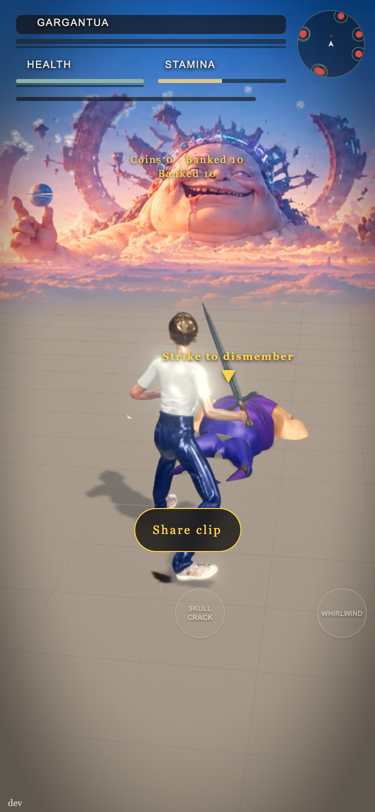
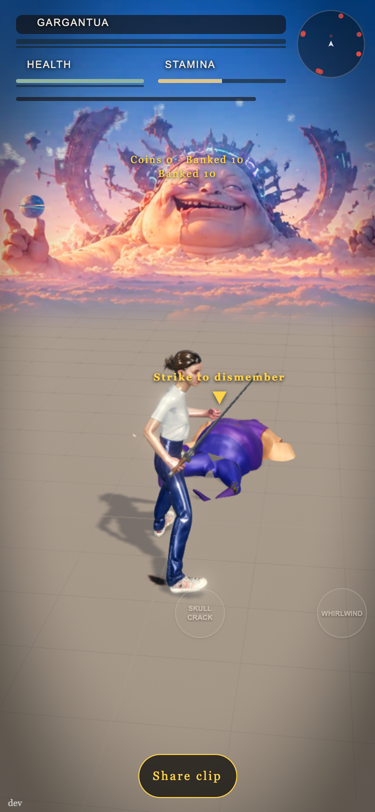
docs: share clip review fixes and new button stills (375, 320, landscape)

diff --git a/docs/share-clip.md b/docs/share-clip.md
@@ -81,4 +81,5 @@ iOS Safari MP4 recording; the iOS and Android share sheet with a file; TikTok / 
 - Share needs a fresh tap, so the button appears only when the file is ready and the tap itself calls `navigator.share` (simpler than V1's auto-try + SEND). A dismissed or refused share leaves the button for another tap; no file-share support downloads.
 - Pit hook: `window.dispatchEvent(new CustomEvent('v3:clip-moment', { detail: { label } }))` at the result; `window.__v3Clip.arm(true)` while a run is on if `engaged` is not theirs, `arm(false)` after the moment. With nothing buffered the moment offers a still picture.
 - Built-game run (`scripts/share-clip-check.mjs`, headless Chromium 1234 on the Mac, Metal, 375x812): a real kill (boss health to 1, as `look-after-kill.mjs`) produced `frankendom-gargantua.mp4`: ffprobe h264 720x1280 30 fps yuv420p + opus audio, 6.9 s, 3.5 MB, 4.08 Mbps. Frame interval 16.6 ms mean, 17.7 ms p95 both idle and while two encoders ran (no measurable cost headless on an M-series Mac). Stills: `docs/stills/share-clip/` (button at 375, a result frame with the watermark). `--share` run: `navigator.share` received the same file (name, type, `title: Frankendom`).
+- Review fixes: the jank guard measures twice (first `guard.seconds` with one encoder, then `guard.seconds` from the second encoder's start); a stop watchdog (`stopTimeoutSeconds`) turns a recorder that never fires `onstop` into the still picture; a second tap during a pending share is ignored; the button is a small pill on the bottom edge (`button.bottomPx` + safe-area), outside the cut hint's safe band (pickup.json `safe`) and clear of the corpse and its cut circles. Geometry checked in the built game with the hint on screen at 375x812, 320x568 and 812x375: no overlap with `.pk-hint` / `.cut-cue` or the 20%-70% hint band, and a tap at the hint's centre does not hit the button (stills `button-<w>x<h>.png`).
 - Not tested: iOS Safari, a real share sheet, TikTok / Instagram / X acceptance, real phone frame rate, the Send-after-refusal path on a phone, audio level in the file. See the PR body for Dom's phone steps.
